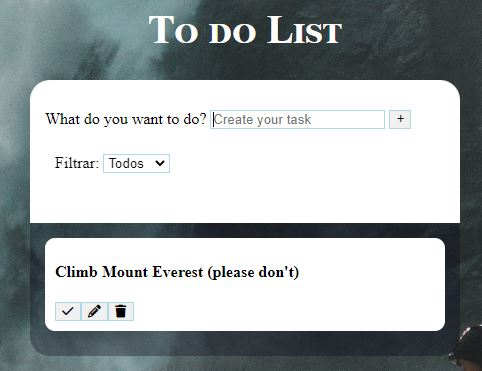
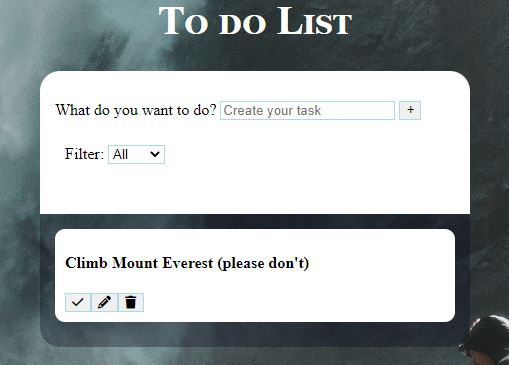
Swapped some pictures and made some changes on the HTML

diff --git a/index.html b/index.html
@@ -36,18 +36,18 @@
                         <i class="fa-solid fa-check"></i>
                     </button>
                     <br>
-                    <button type="button" id="cancelaEdit"> Cancelar </button>
+                    <button type="button" id="cancelaEdit"> Cancel </button>
 
                 </div>
     
                 <div id="blocoFiltro">
                     
-                    Filtrar:
+                    Filter:
                     <select id="filtrar" class="campoLista" >
     
-                        <option value="all"> Todos </option>
-                        <option value="done"> Feitas </option>
-                        <option value="to-do"> À fazer </option>
+                        <option value="all"> All </option>
+                        <option value="done"> Done </option>
+                        <option value="to-do"> To do </option>
     
                     </select>
                 </div>
